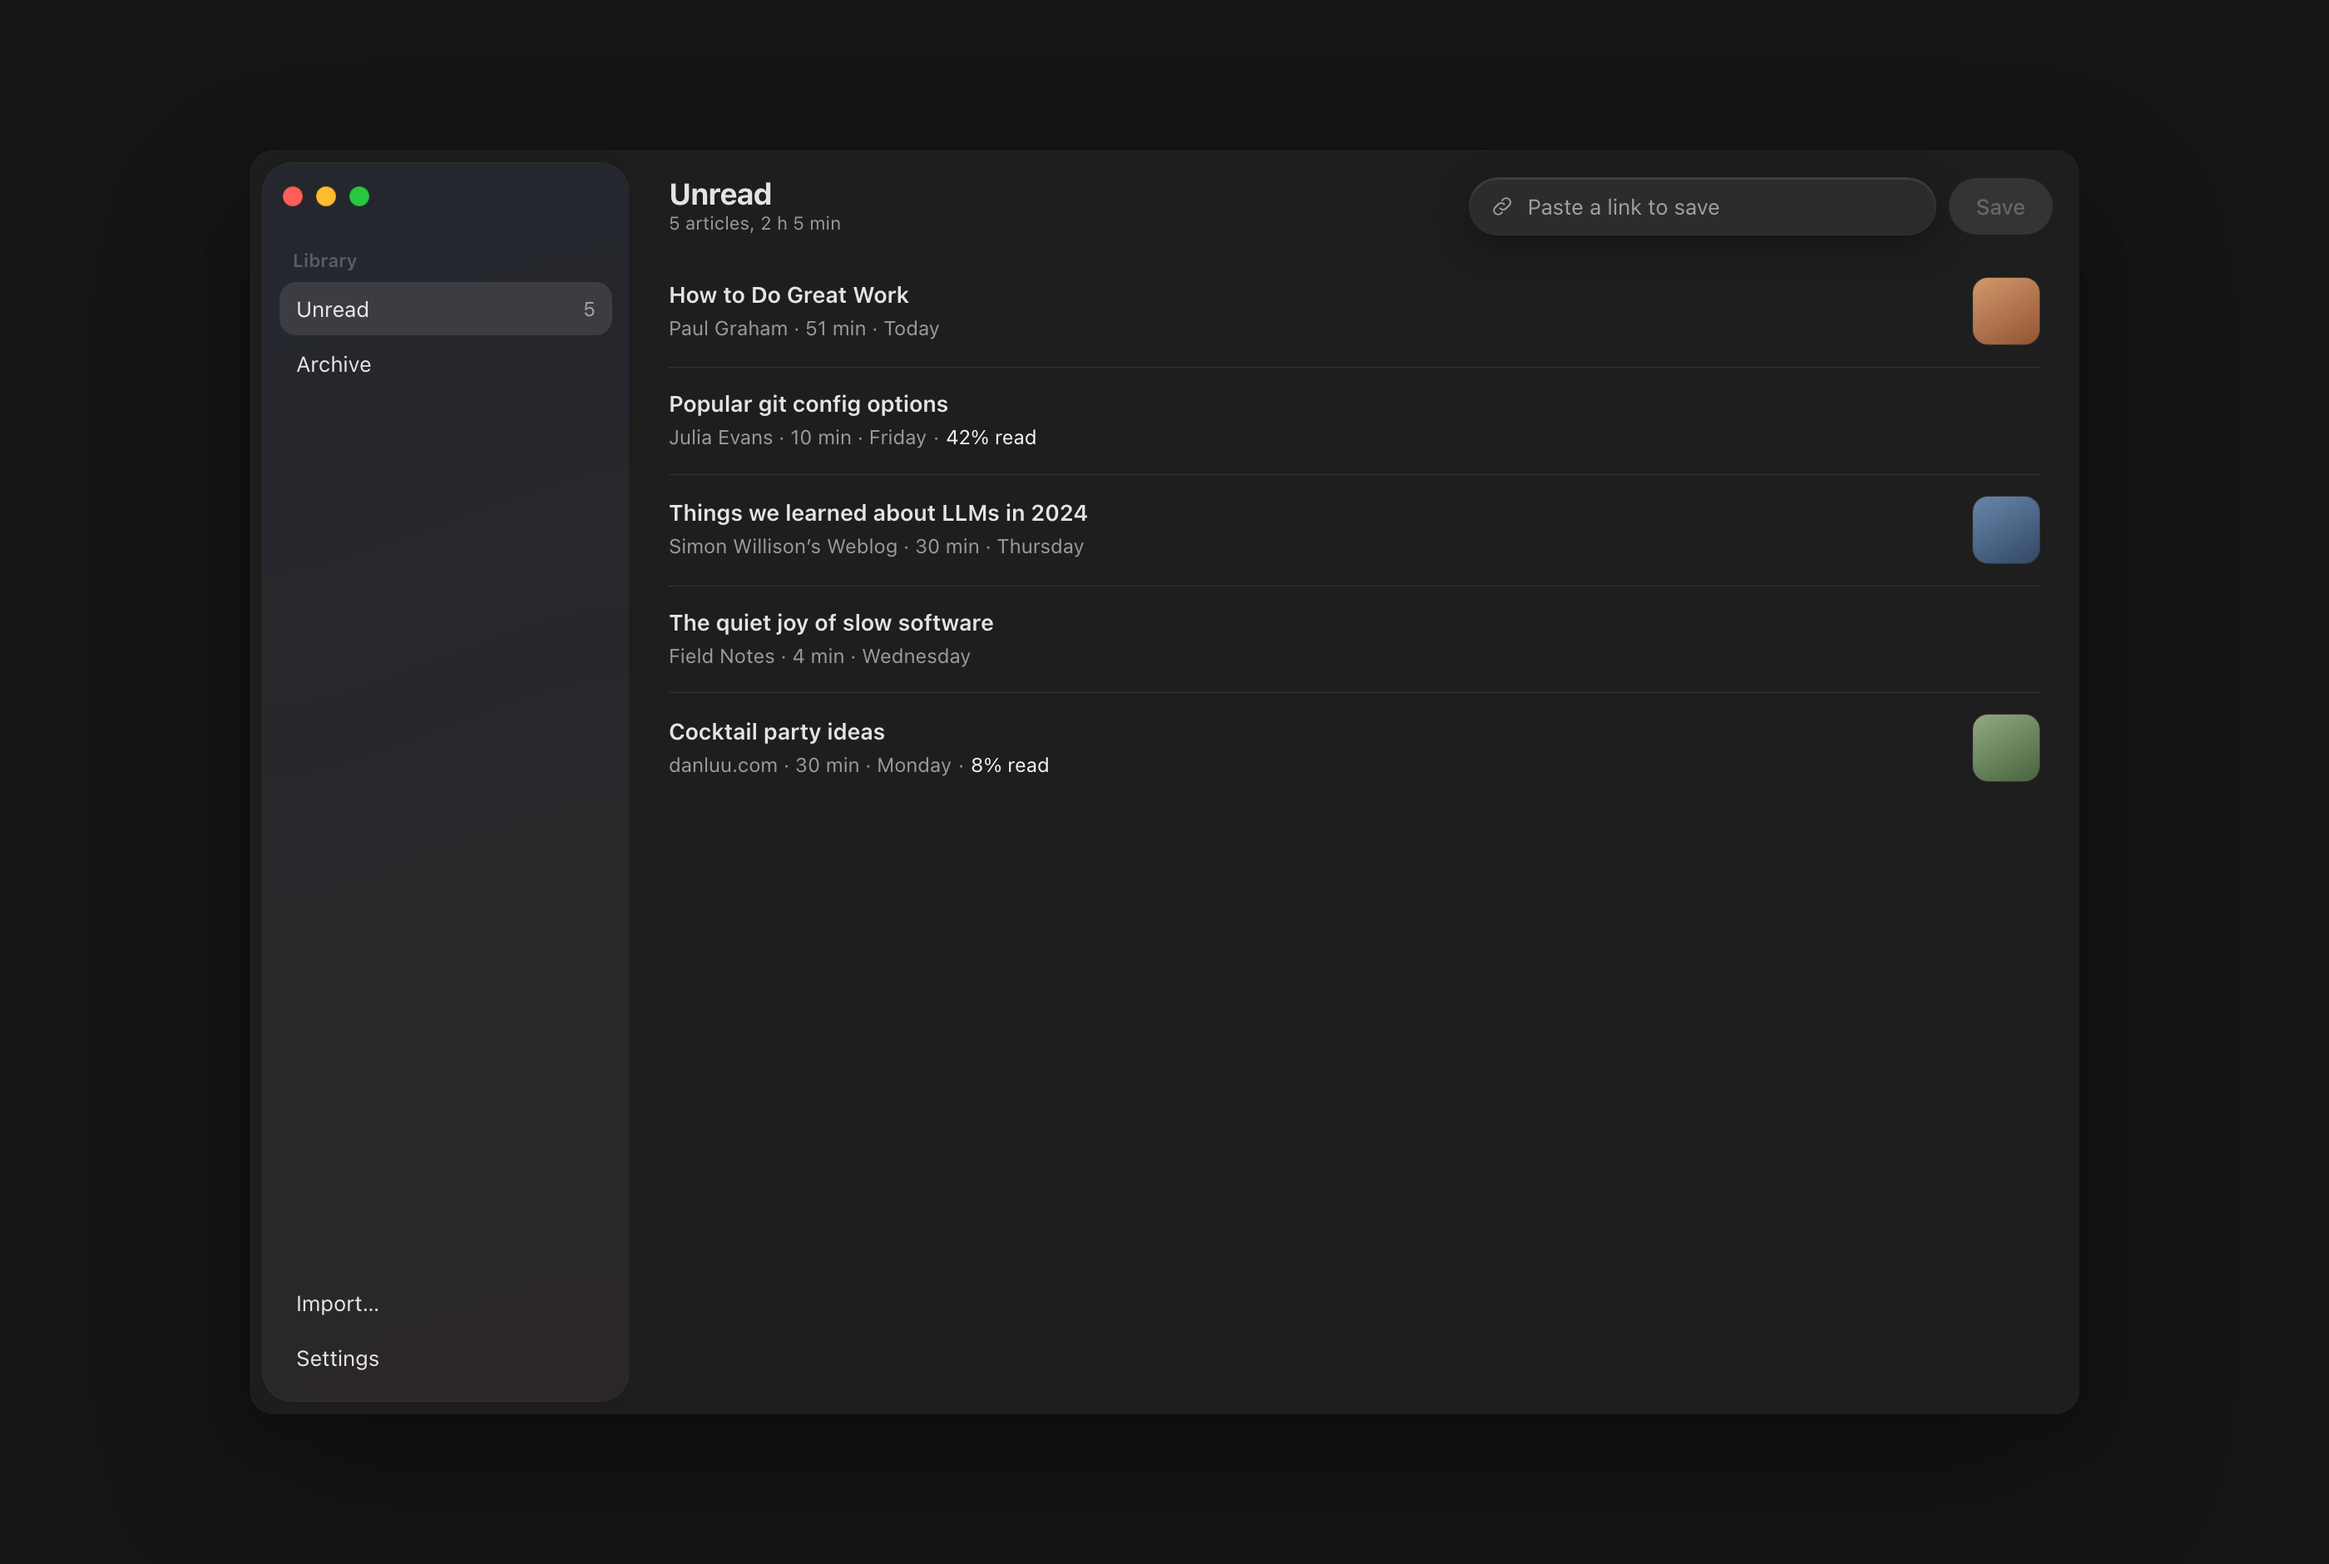
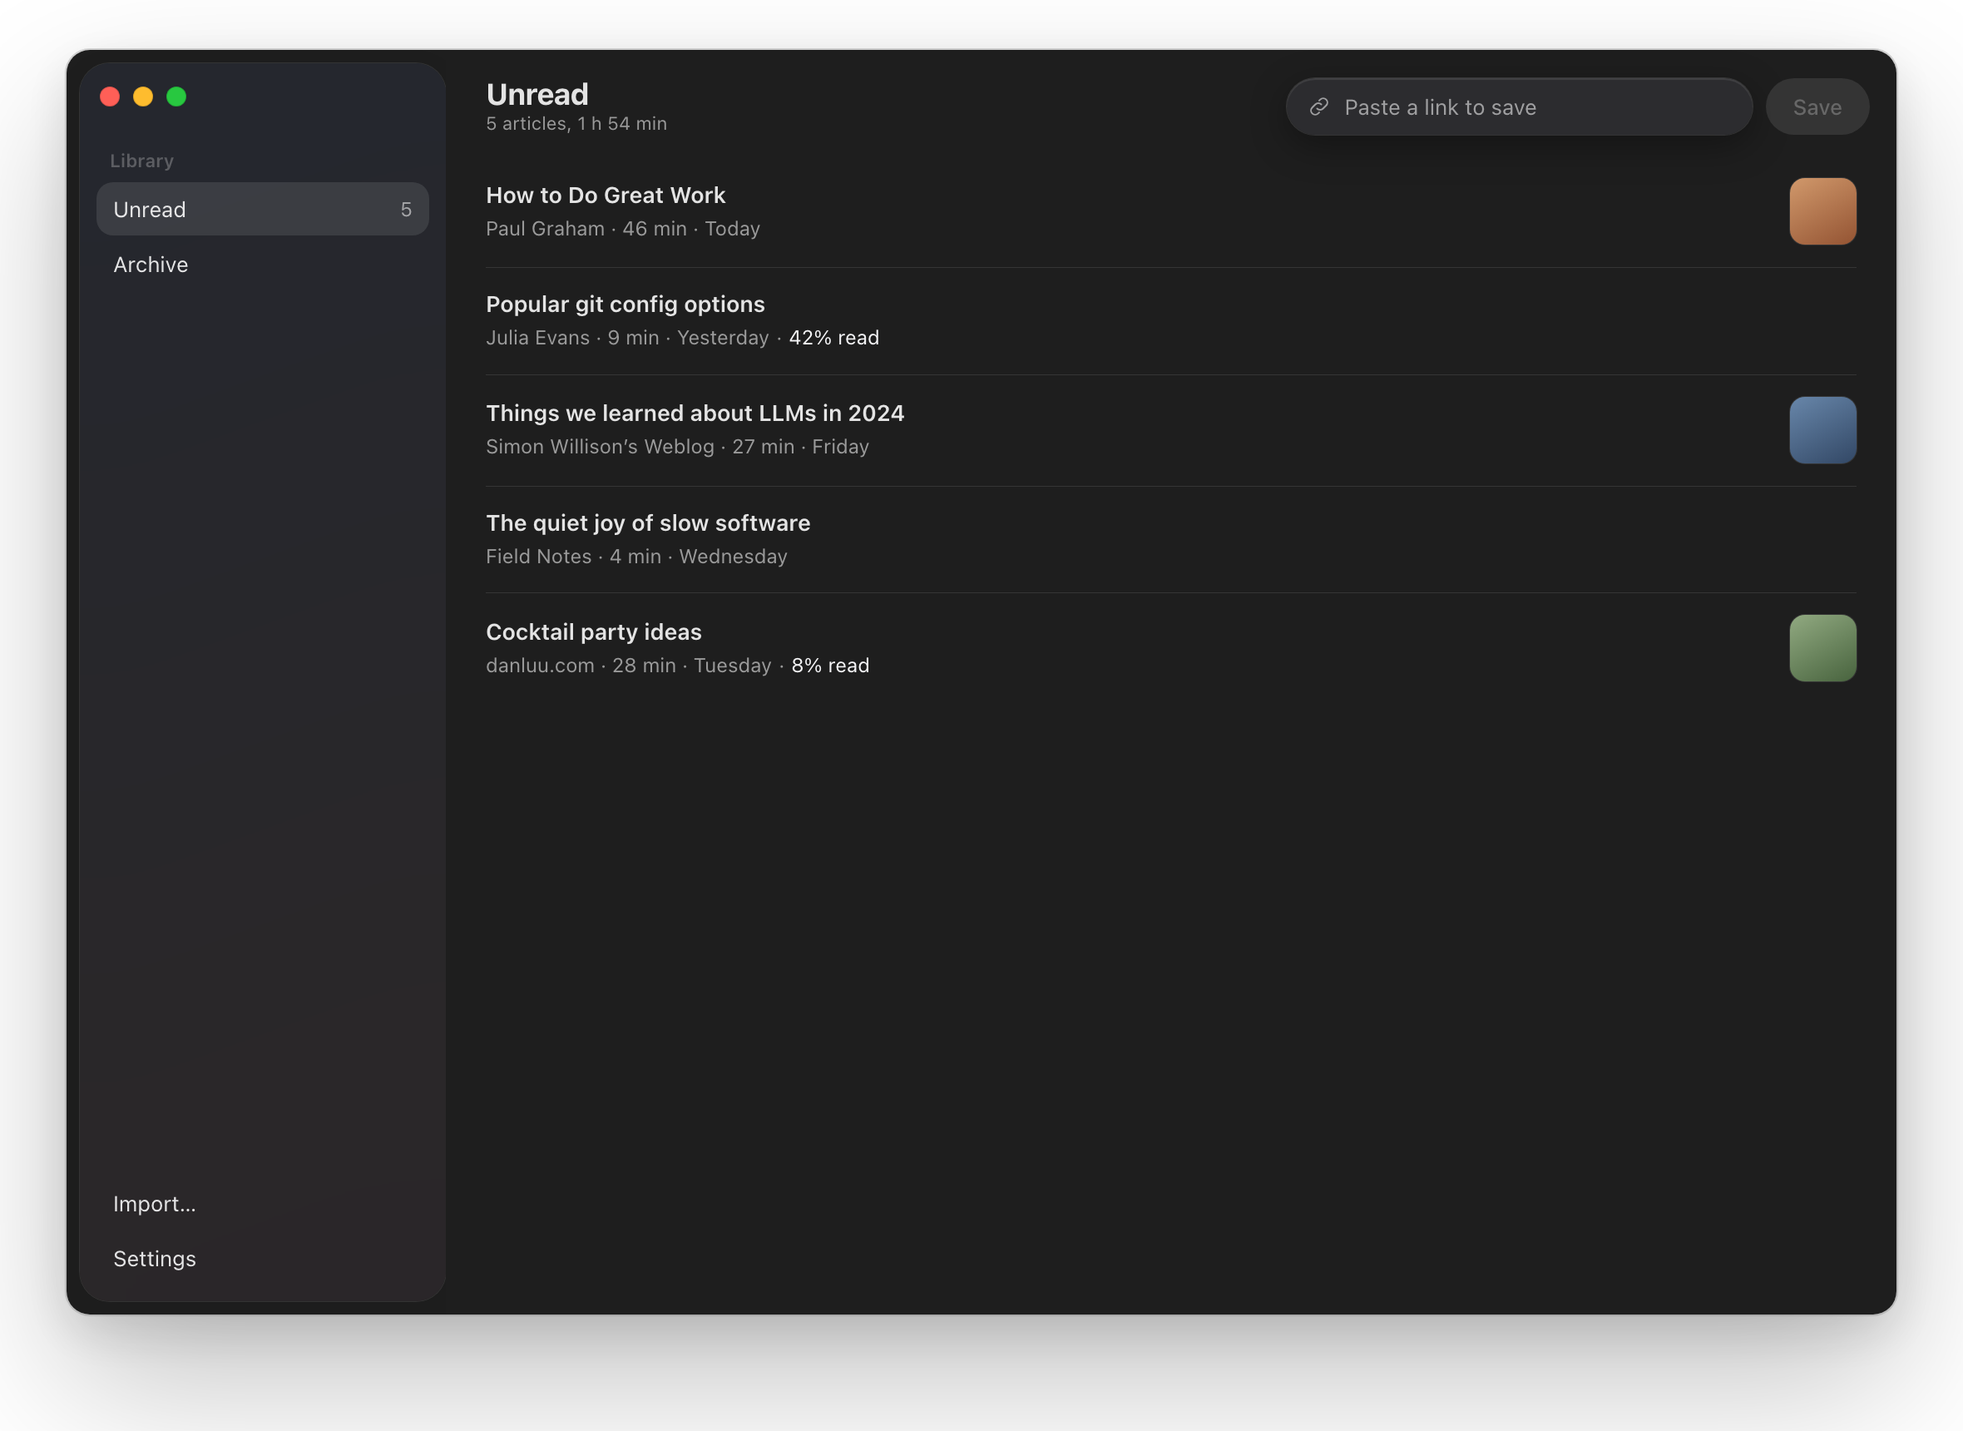
README: download buttons, page colours and styles pictures, folded details
- Dark pill download buttons (SVG) that read on GitHub's light and dark themes.
- New pictures: the three page colours, Graphite next to Ink; the hero now
  floats on a transparent background with a hairline edge.
- Long how-tos (extension install, import, library folder, development) fold
  away under <details>. Reading-speed learning is mentioned; size claim now
  matches the real downloads (under 7 MB).

Changed region(s): [[0.0, 0.0, 1.0, 1.0], [0.2165, 0.1233, 0.464, 0.493], [0.8352, 0.1233, 0.897, 0.2157]]

diff --git a/README.md b/README.md
@@ -10,16 +10,16 @@
 </p>
 
 <p align="center">
-  <a href="https://github.com/anon5376/readbox/releases/latest"><img src="https://img.shields.io/github/v/release/anon5376/readbox?label=download&color=1d1d1f" alt="Latest release"></a>
-  <img src="https://img.shields.io/badge/macOS%20%7C%20Windows-555" alt="macOS and Windows">
-  <a href="LICENSE"><img src="https://img.shields.io/badge/license-MIT-555" alt="MIT license"></a>
+  <a href="https://github.com/anon5376/readbox/releases/latest"><img src="docs/download-mac.svg" height="48" alt="Download for Mac"></a>
+  &nbsp;
+  <a href="https://github.com/anon5376/readbox/releases/latest"><img src="docs/download-windows.svg" height="48" alt="Download for Windows"></a>
 </p>
 
 <p align="center">
-  <a href="https://github.com/anon5376/readbox/releases/latest"><b>Download for Mac</b></a> (.dmg)
-  &nbsp;·&nbsp;
-  <a href="https://github.com/anon5376/readbox/releases/latest"><b>Download for Windows</b></a> (.exe)
+  <sub>Free and open source &nbsp;·&nbsp; macOS 11 or later, Apple Silicon and Intel &nbsp;·&nbsp; Windows 10 and 11 &nbsp;·&nbsp; <a href="https://github.com/anon5376/readbox/releases/latest">all downloads</a></sub>
 </p>
+
+<br>
 
 <picture>
   <source media="(prefers-color-scheme: dark)" srcset="docs/hero-dark.png">
@@ -30,64 +30,93 @@
 
 Pocket shut down. Omnivore shut down. Readbox can't, because there's nothing to shut down: no company servers, no account, no subscription.
 
-- **Your library is a folder of plain files.** Put it in iCloud Drive, Dropbox or OneDrive to sync between computers. You can open the files without the app.
+- **Your library is a folder of plain files.** Put it in iCloud Drive, Dropbox or OneDrive to sync between computers. The files open without the app.
 - **Nothing leaves your computer.** No tracking, no analytics.
-- **Saves the page as you see it.** The browser extension keeps articles you're logged into, with their pictures, for reading offline.
+- **Saves the page as you see it.** The browser extension keeps articles you're logged into, pictures included, for reading offline.
 - **Bring your old list.** Imports from Pocket, Omnivore and Instapaper, keeping dates and what you'd archived.
-- **Small and fast.** About 3 MB, built with [Tauri](https://tauri.app) instead of a bundled Chrome.
+- **Small and quick.** Under 7 MB to download, built with [Tauri](https://tauri.app) instead of a bundled copy of Chrome.
 
-<table>
-  <tr>
-    <td width="50%"><img src="docs/screenshot-reader-sepia.png" alt="Reading an article on a sepia page"></td>
-    <td width="50%"><img src="docs/screenshot-settings.png" alt="Reading settings: text size, font, width and page colour"></td>
-  </tr>
-  <tr>
-    <td align="center">A clean reader: white, sepia or night pages</td>
-    <td align="center">Pick the size, font and line width</td>
-  </tr>
-</table>
+## Made for reading
+
+<p align="center">
+  <img src="docs/pages.png" alt="The same article on a white, a sepia and a night page">
+</p>
+
+- **White, sepia or night pages**, or let the page follow your computer's light and dark mode.
+- **Your size, font and line width**, from the **Aa** button while you read.
+- **Reading times that fit you.** Readbox learns how fast you read from your first 10 articles, then uses your speed everywhere.
+- **Picks up where you left off**, and shows how many minutes are left.
+
+## Two styles
+
+<p align="center">
+  <img src="docs/styles.png" alt="Readbox in the Graphite style and in the Ink style">
+</p>
+
+<p align="center"><b>Graphite</b>, in Apple's greys and black, and <b>Ink</b>, warm paper white with ink blue.<br>Both come in light and dark. Switch in <b>Settings → General → Style</b>.</p>
 
 ## Install
 
-1. Download the latest version from **[Releases](https://github.com/anon5376/readbox/releases/latest)**: the `.dmg` for Mac (Apple Silicon and Intel) or the `-setup.exe` for Windows.
+1. Download Readbox from **[Releases](https://github.com/anon5376/readbox/releases/latest)**: the `.dmg` for Mac or the `-setup.exe` for Windows.
 2. Readbox isn't signed with a paid developer certificate yet, so your computer asks once:
    - **Mac:** drag Readbox into Applications and open it. When macOS says it can't check the app, go to **System Settings → Privacy & Security**, scroll down and click **Open Anyway**.
    - **Windows:** if SmartScreen appears, click **More info → Run anyway**.
 3. Optional: add the [browser extension](#browser-extension) to save pages with one click.
 
-> **Status: early (0.1).** Saving, importing, the reading list and the reader work. Bugs are likely; please [open an issue](https://github.com/anon5376/readbox/issues).
+> [!NOTE]
+> **Early days (0.1).** Saving, importing, the reading list and the reader all work, but expect rough edges. Please [report anything that breaks](https://github.com/anon5376/readbox/issues).
 >
 > **Built with AI.** Most of the code is written by AI coding agents, directed and tested by a human.
 
-## Using it
-
-- Paste a link into the box at the top (or press ⌘V / Ctrl+V anywhere in the window) to save it.
-- Click an article to read it. **Aa** changes text size, font, width and theme. Esc goes back.
-- Archive what you've read; Delete moves an article to the system Trash.
-- **Settings** has the appearance (light or dark), your library folder, reading options and the import.
-- On a Mac, closing the window keeps Readbox running in the Dock (so the extension can save); ⌘Q quits.
-
-## Moving from Pocket, Omnivore or Instapaper
-
-Open **Settings → Import → Choose File…** and choose the file you downloaded from them (Pocket's `.csv`/`.zip`/`.html`, Omnivore's `.zip`, Instapaper's `.csv`). Readbox keeps each article's original date, whether you'd archived it, and Omnivore's reading position. It uses the article text from Omnivore exports and downloads everything else; articles that are gone from the web are kept as a title and link. `samples/pocket-sample.csv` is a small file to try it with.
-
 ## Browser extension
 
-The extension saves the page you're looking at, exactly as you see it, so articles you're logged into save properly. It sends the page only to the Readbox app on your own computer.
+Saves the page you're looking at, exactly as you see it, so articles behind a login save properly. It sends the page only to the Readbox app on your own computer.
 
 - Click the Readbox button in the toolbar, or press **Alt+Shift+S**.
 - Right-click a page or a link for **Save page / Save link to Readbox**.
-- The button shows **✓** when saved and **!** with a notification if something went wrong (usually: the app isn't open).
+- The button shows **✓** when saved, or **!** with a notification if something went wrong (usually: the app isn't open).
 
-The extension isn't in the browser stores yet. Download `Readbox-browser-extension.zip` from [Releases](https://github.com/anon5376/readbox/releases/latest) and unzip it (or use the `extension` folder of this repository).
+<details>
+<summary><b>How to install it</b></summary>
+<br>
+
+The extension isn't in the browser stores yet. Download `Readbox-browser-extension.zip` from [Releases](https://github.com/anon5376/readbox/releases/latest) and unzip it, or use the `extension` folder of this repository.
 
 **Chrome, Brave, Edge, Helium, Arc:** open `chrome://extensions`, turn on **Developer mode**, click **Load unpacked** and pick the unzipped folder.
 
-**Firefox:** open `about:debugging#/runtime/this-firefox`, click **Load Temporary Add-on** and pick `manifest.json` in the unzipped folder. Firefox removes it when it restarts until the extension is published.
+**Firefox:** open `about:debugging#/runtime/this-firefox`, click **Load Temporary Add-on** and pick `manifest.json` in the unzipped folder. Firefox removes it when it restarts, until the extension is published.
 
 How it talks to the app: Readbox listens on `127.0.0.1:47612` and only accepts JSON requests from browser extensions, so websites can't add things to your library.
 
-## The library folder
+</details>
+
+## More
+
+<details>
+<summary><b>Using Readbox</b></summary>
+<br>
+
+- Paste a link into the box at the top, or press ⌘V / Ctrl+V anywhere in the window, to save it.
+- Click an article to read it. **Aa** changes text size, font, width and page colour. Esc goes back.
+- Archive what you've read. Delete moves an article to the system Trash.
+- **Settings** has the appearance and style, your library folder, reading options, your reading speed and the import.
+- On a Mac, closing the window keeps Readbox running in the Dock, so the extension can still save. ⌘Q quits.
+
+</details>
+
+<details>
+<summary><b>Moving from Pocket, Omnivore or Instapaper</b></summary>
+<br>
+
+Open **Settings → Import → Choose File…** and choose the file you downloaded from them: Pocket's `.csv`, `.zip` or `.html`, Omnivore's `.zip`, or Instapaper's `.csv`.
+
+Readbox keeps each article's original date, whether you'd archived it, and Omnivore's reading position. It uses the article text from Omnivore exports and downloads everything else. Articles that are gone from the web are kept as a title and link. `samples/pocket-sample.csv` is a small file to try it with.
+
+</details>
+
+<details>
+<summary><b>The library folder</b></summary>
+<br>
 
 By default it's `Documents/Readbox Library`:
 
@@ -102,7 +131,11 @@ Readbox Library/
 
 Every article is its own folder, so syncing two computers rarely conflicts.
 
-## Development
+</details>
+
+<details>
+<summary><b>Development</b></summary>
+<br>
 
 Needs [Node.js](https://nodejs.org) and [Rust](https://rustup.rs).
 
@@ -117,9 +150,13 @@ scripts/app-screenshot.sh app.png   # the real Mac window, on an empty test libr
 cd src-tauri && cargo test   # library/storage tests
 ```
 
-Article cleaning uses Mozilla's [Readability](https://github.com/mozilla/readability) (the engine behind Firefox's reader view) and [DOMPurify](https://github.com/cure53/DOMPurify).
+</details>
 
-The interface uses the Segmented Control from [affectUI](https://www.affectui.com) (MIT) and animations adapted from [Rare UI](https://rareui.com) (Animated Counter, Bounce Sidebar, Delete Button and Scroll Progress, toned down and rewritten in CSS, under Rare UI's MIT + Commons Clause + Attribution licence in `src/components/rareui/LICENSE`).
+## Credits
+
+Article cleaning uses Mozilla's [Readability](https://github.com/mozilla/readability), the engine behind Firefox's reader view, and [DOMPurify](https://github.com/cure53/DOMPurify).
+
+The interface uses the Segmented Control from [affectUI](https://www.affectui.com) (MIT) and animations adapted from [Rare UI](https://rareui.com): Animated Counter, Bounce Sidebar, Delete Button and Scroll Progress, toned down and rewritten in CSS, under Rare UI's MIT + Commons Clause + Attribution licence in `src/components/rareui/LICENSE`.
 
 ## License
 
